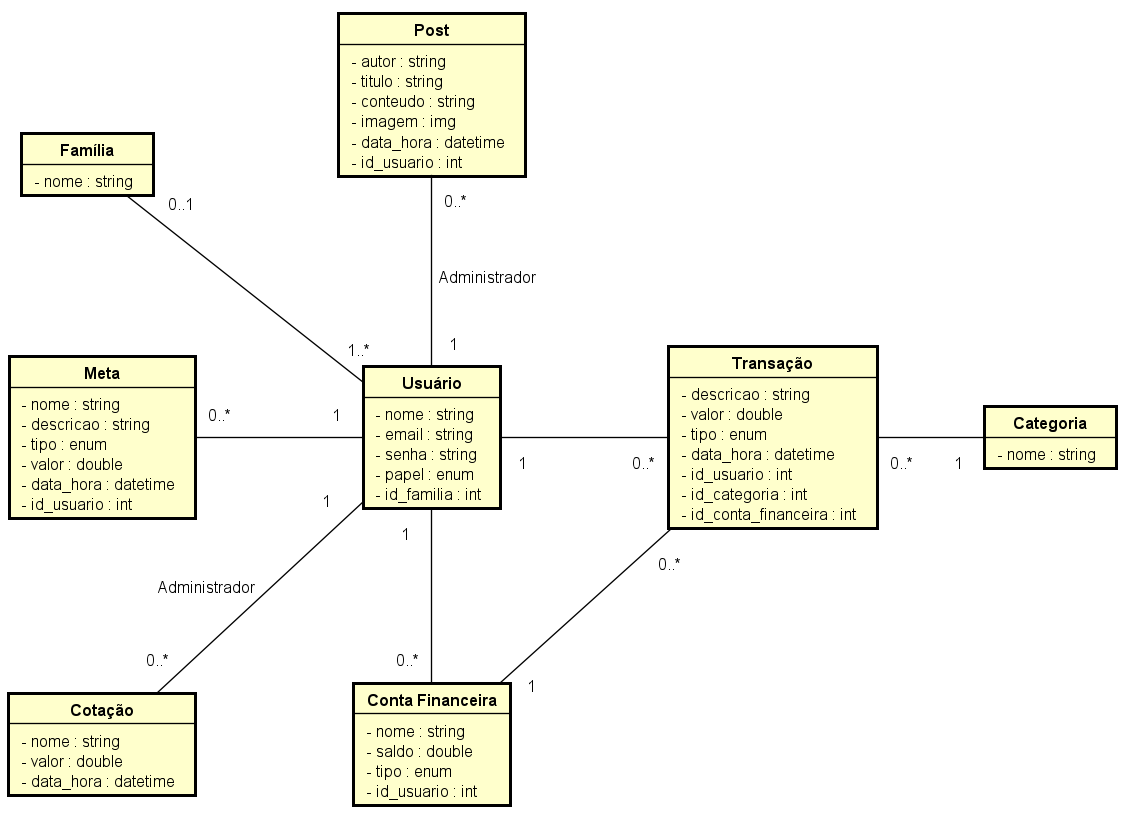
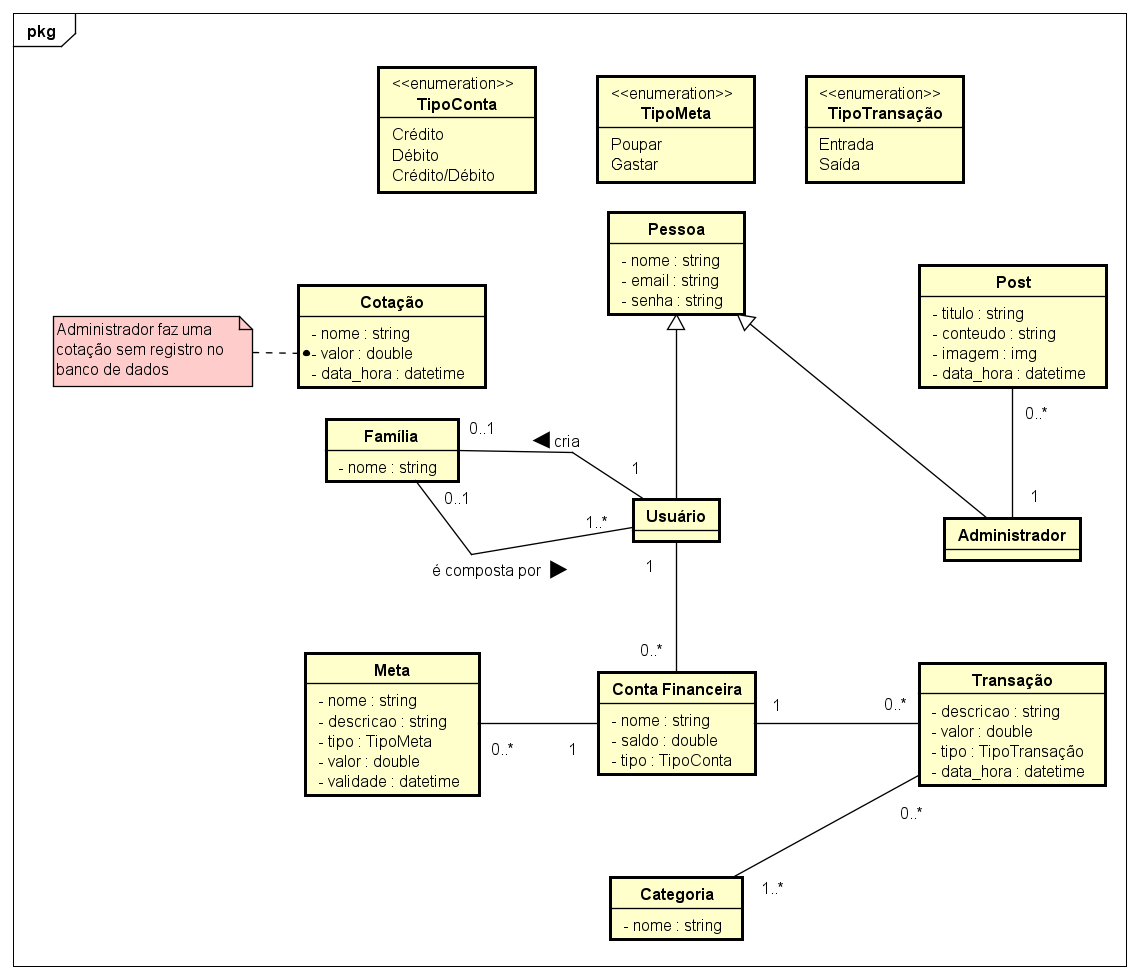
atualização do primeiro modelo de classes de domínio

diff --git a/doc/dominio/dominio.md b/doc/dominio/dominio.md
@@ -5,7 +5,7 @@
 | Data | Versão | Descrição | Autores |
 | :--: | :----: | :-------: | :-----: |
 | 26/10/2025 | 1.0 | Versão inicial |  Bruno Dias, Eduardo Medeiros, Lucas Henrique, Pedro Ricardo, Wagner Souza |
-| - | - | - |  - |
+| 04/11/2025 | 2.0 | Versão atualizada |  Bruno Dias, Eduardo Medeiros, Lucas Henrique, Pedro Ricardo, Wagner Souza |
 
 ## 1. Diagrama das Classes Conceituais do Domínio
 